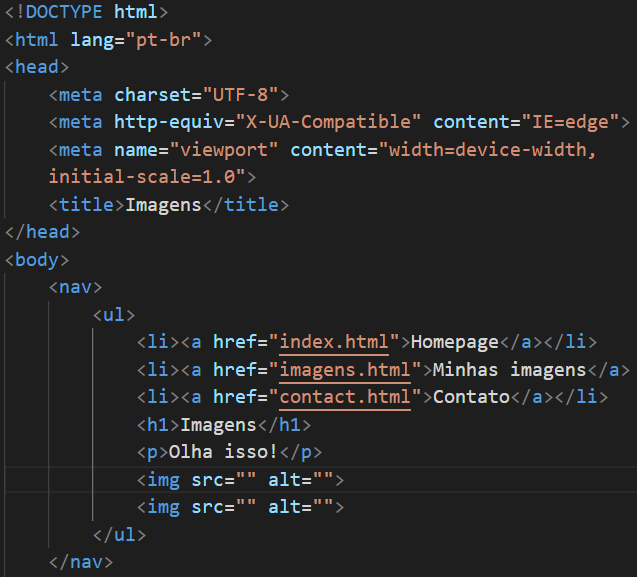
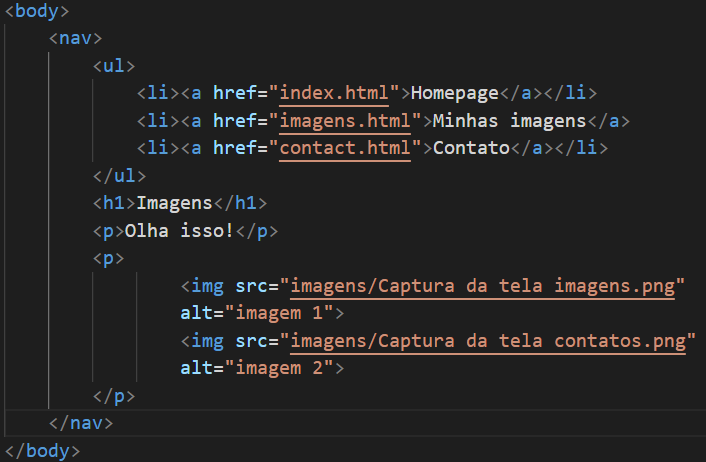
criando projeto

Changed region(s): [[0.0, 0.0, 0.9843, 0.8788], [0.0, 0.5758, 0.9843, 1.0], [0.1193, 0.6061, 0.1491, 0.8182]]

diff --git a/estelar01/contact.html b/estelar01/contact.html
@@ -12,20 +12,13 @@
             <li><a href="index.html">Homepage</a></li>
             <li><a href="imagens.html">Minhas imagens</a></li>
             <li><a href="contact.html">Contato</a></li>
-            <h1>Contato</h1>
-            <p>Fale comigo</p>
-                <ul>
-                    <li><a href="mailto:meuemail.com">meuemail@email.com</a></li>
-                    <li><a href="tel:8877776666">(88) 7777 6666</a></li>
-                </ul>
-
-
-
-
-        </ul>
-
-
+        </ul>    
+        <h1>Contato</h1>
+        <p>Fale comigo</p>
+            <ul>
+                <li><a href="mailto:meuemail.com">meuemail@email.com</a></li>
+                <li><a href="tel:8877776666">(88) 7777 6666</a></li>
+            </ul>
     </nav>
-
 </body>
 </html>

diff --git a/estelar01/imagens.html b/estelar01/imagens.html
@@ -12,12 +12,13 @@
             <li><a href="index.html">Homepage</a></li>
             <li><a href="imagens.html">Minhas imagens</a>
             <li><a href="contact.html">Contato</a></li>
-            <h1>Imagens</h1>
-            <p>Olha isso!</p>
-            <img src="imagens/Captura da tela imagens.png" alt="imagem 1">
-            <img src="imagens/Captura da tela contatos.png" alt="imagem 2">
-        </ul>
+        </ul>    
+        <h1>Imagens</h1>
+        <p>Olha isso!</p>
+        <p>
+                <img src="imagens/Captura da tela contatos.png .png" alt="imagem 1">
+                <img src="imagens/Captura da tela imagens.png" alt="imagem 2">
+        </p>
     </nav>
-    
 </body>
 </html>
